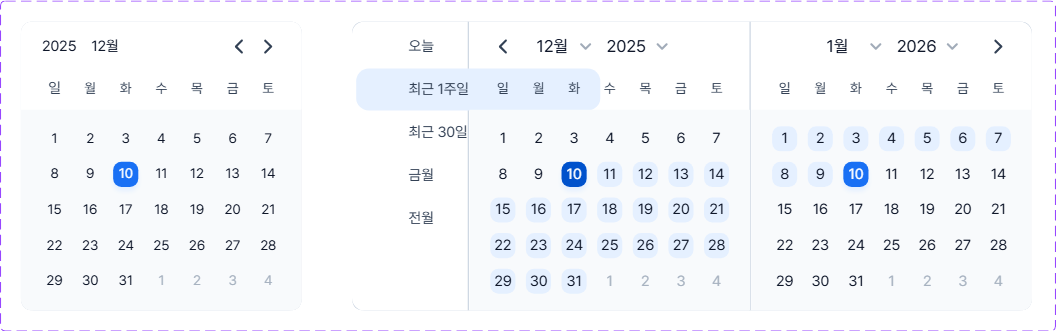
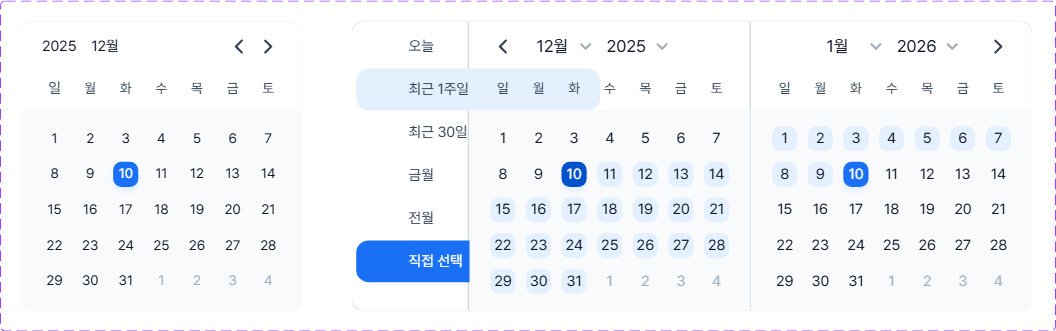
feat(web): render fidelity round 17 — variant swap inherits target's visual props
Round 16 made the data layer correct for variant swap (6 rail rows
all visible, "직접 선택" override applied to swap target's TEXT
descendant) but the audit screenshot still missed the 6th row.
Investigation hypothesised an audit-harness bbox issue; Konva tree
dump in the live page showed the real cause:

The "직접 선택" TEXT renders with `fill: rgba(255,255,255,1)` (white)
because the swap target master 15:287 styles its label as white-on-
blue (cornerRadius 12, fillPaints blue rgba(0.097, 0.441, 0.957)).
Round 16 swapped the master tree for children expansion but did not
inherit the swap target's visual properties onto the INSTANCE node
itself. Result: white text painted onto the rail's white container
background → visually invisible.

Fix: when swap is applied (swapApplied true), merge the swap
target's data fields into the instance's data PRIOR to the data
spread. Merge rule mirrors pen-export.ts:1146-1158:
  - swap target is the base (provides default fillPaints, cornerRadius,
    strokes, opacity, etc.)
  - instance own field wins on collision (transform, size override,
    instance-specific symbolData)
  - excluded from merge: guid/type/name (identity), children (we
    expand via _renderChildren separately), symbolData (instance-
    specific), transform (instance position), parentIndex/phase
    (tree-structure).

Visual gate: datepicker-12_749 rail now matches figma exactly — 6
rows including "직접 선택" with BLUE background + WHITE text. All
[…]

Changed region(s): [[0.3125, 0.7251, 0.4688, 0.8761]]

diff --git a/web/core/domain/clientNode.ts b/web/core/domain/clientNode.ts
@@ -637,6 +637,32 @@ export function toClientChildForRender(
         // I-E1: corrupt swap target falls back to the default master.
         ?? (swapTargetKey ? symbolIndex.get(`${sid.sessionID}:${sid.localID}`) : undefined);
       const swapApplied = swapTargetKey !== undefined && master !== undefined && masterKey === swapTargetKey;
+      // Spec web-instance-variant-swap §3.3 (round 17 extension): when
+      // swap is applied, the rendered INSTANCE node inherits the swap
+      // target's visual properties (fillPaints, cornerRadius, strokes,
+      // etc.) — Figma's semantic is "use this variant's appearance".
+      // Without this, e.g. metarich's "직접 선택" row renders the WHITE
+      // text with no blue background → visually invisible. The
+      // instance's own data fields (transform, etc.) still win on top
+      // for non-visual concerns. Mirrors pen-export.ts:1146-1158.
+      if (swapApplied && master) {
+        const swapTargetData = (master.data ?? {}) as Record<string, unknown>;
+        for (const k of Object.keys(swapTargetData)) {
+          // Skip fields the instance is meant to own / fields that don't
+          // make sense to inherit (children — we expand them separately
+          // via _renderChildren below; symbolData — instance-specific).
+          if (k === 'guid' || k === 'type' || k === 'name') continue;
+          if (k === 'children' || k === 'symbolData') continue;
+          if (k === 'transform') continue;            // instance position wins
+          if (k === 'parentIndex' || k === 'phase') continue;
+          // Only inherit when the instance doesn't already provide the
+          // field (instance own value wins on collision). Falls back to
+          // swap target for missing visual fields like fillPaints.
+          if (data[k] === undefined) {
+            (data as Record<string, unknown>)[k] = swapTargetData[k];
+          }
+        }
+      }
       if (master) {
         const innerText = collectTextOverridesFromInstance(sd?.symbolOverrides);
         const innerFill = collectFillOverridesFromInstance(sd?.symbolOverrides);

diff --git a/docs/specs/web-instance-variant-swap.spec.md b/docs/specs/web-instance-variant-swap.spec.md
@@ -52,6 +52,16 @@ Figma 의 "swap component instance" 메커니즘. 외곽 INSTANCE 의 `symbolOve
 - I-V1 swap 이 적용된 INSTANCE 는 **implicit visible:true** 로 취급 — 즉 INSTANCE 자체의 master 데이터가 `visible: false` 라도, swap 이 active 하면 visible 로 렌더. **단**, explicit `visibilityOverrides` (Symbol Visibility Override) 가 다른 값을 명시하면 그 값이 우선 (round-12 §3.4 I-P8 의 우선순위 일관). 메타리치 Dropdown 의 "직접 선택" 케이스: 15:300 master 데이터가 `visible: false`, outer 가 explicit `visible` override 를 두지 않음, swap 적용 → implicit visible:true → render.
 - I-V2 swap 이 *없는* INSTANCE 는 본 spec 영향 없음 — 기존 visibility 룰 그대로.
 
+### 3.4 Visual property inheritance from swap target (round 17)
+
+Figma 의 swap semantic 은 "use this variant's appearance" — 단순히 children 만 교체하는 게 아니라 **swap target 의 시각 속성을 INSTANCE 자체에 적용**. 메타리치 "직접 선택" 케이스: 기본 master 11:514 는 fillPaints 없음, swap target 15:287 은 fillPaints `{r:0.097, g:0.441, b:0.957}` (BLUE) + cornerRadius 12 + 흰 텍스트. swap 후 INSTANCE 가 swap target 의 fillPaints 를 inherit 하지 않으면 흰 텍스트가 흰 컨테이너 위에 그려져 시각적으로 사라짐.
+
+- I-V3 swap 이 적용되면 swap target 의 `data` 필드를 instance `data` 에 머지 (read 전, data spread 직전). 머지 룰: **instance own field wins** — 이미 instance.data 에 값이 있으면 유지; 없을 때만 swap target 값 채움.
+- I-V4 머지에서 제외하는 필드: `guid`, `type`, `name` (identity), `children`, `symbolData` (instance-specific), `transform` (instance position), `parentIndex`, `phase` (tree-structure). 그 외는 inherit 후보.
+- I-V5 visual fields (fillPaints, strokePaints, cornerRadius, rectangle*CornerRadius, opacity 등) 가 inherit 되어 시각적 outcome 이 swap target 의 것과 일치.
+
+`pen-export.ts:1146-1158` 의 `merged` 객체 생성 로직과 동등한 효과 — 거기서는 `{ ...masterData, ...rootOverrideFields, ... }` 로 master 값이 base, override 가 상위. 본 spec 의 I-V3 는 같은 방향: swap target 이 base, instance own 이 상위.
+
 ### 3.4 Master immutability
 
 - I-M1 swap target master 의 데이터 자체는 건드리지 않음 — round-12 spec §3.3 의 master immutability 와 동일 룰. swap 결과는 per-instance `_renderChildren` 복제본에만 적용.
@@ -79,14 +89,8 @@ Figma 의 "swap component instance" 메커니즘. 외곽 INSTANCE 의 `symbolOve
 - **Swap target 의 visibility 가 false** — swap target master 자체의 `visible: false` 케이스. v1 은 swap target 이 visible: true 라고 가정 (메타리치 케이스 충족).
 - **Swap target 의 master tree 가 변경된 후 다른 outer override 처리** — v1 은 swap target 의 children 에 outer 의 *나머지* overrides 적용. 만약 다른 path-keyed override 가 default master 의 children 을 target 으로 작성되어 있으면 그 override 는 (다른 GUID 트리이므로) 매칭 안 됨 — 무효. 메타리치는 outer override 가 swap target 의 GUID 를 알고 있어 자동 매칭.
 
-## 7. Known caveat — datepicker rail 6번째 행 visual
+## 7. Round 17 visual fix history (resolved)
 
-본 spec 구현 후 메타리치 datepicker rail 의 6번째 옵션 ("직접 선택") 은 **데이터 레이어에서는 정상 표시** — `_renderChildren` 에 `id: 15:300, visible: true, transform.m12: 209` 로 등록, `_renderChildren[].._renderChildren` 에 swap target 의 TEXT (15:288) 가 `_renderTextOverride: "직접 선택"` 으로 등록 (Konva tree dump 로 확인). 그러나 audit 스크린샷에는 5 행만 보임.
+Round 16 초안 commit 직후 데이터 layer 는 정상 작동했지만 audit 스크린샷에 6번째 행이 보이지 않았다. 원인 가설은 audit harness bbox 미스매치였으나, Konva tree dump 로 직접 확인하니 "직접 선택" TEXT 가 `fill: rgba(255,255,255,1)` (white) + 배경 Rect 부재로 흰 컨테이너 위 흰 텍스트 = 시각적으로 사라진 상태였다. Audit harness 와 무관한 bug.
 
-차이 원인은 본 spec 영역 *밖* — 데이터/오버라이드 파이프라인은 정확히 작동. 잔여 visual gap 의 가능성:
-
-- audit harness 의 `__canvasFitBox` 가 12:749 의 *master.size* (1008×316) 만 고려하고 children 이 그 bbox 밖으로 rendered 되는 케이스에서 짧은 클립.
-- 부모 FRAME (12:749 또는 12:750) 의 frameMaskDisabled clip 이 master.size 기준으로 커서 6번째 행을 자름.
-- Figma API export 의 bbox 와 우리 fig-page 의 bbox 가 *원래부터* 다름 (Figma 가 children 의 바운딩 박스로 export 영역 결정, 우리는 master.size 보고).
-
-별 라운드에서 audit harness 의 fit/clip 로직 또는 master-size-vs-rendered-bounds 디스크리펀시 분석이 필요. 본 spec 의 variant swap 구현 자체는 완성.
+진짜 원인: swap 이 적용되면 swap target master 의 fillPaints (blue background) 를 INSTANCE 에 inherit 해야 하는데, round-16 코드는 children 만 교체하고 visual 속성은 inherit 안 함. round 17 가 §3.4 I-V3~V5 로 visual 속성 inheritance 추가. fix 후 6번째 행이 figma 와 동일하게 BLUE 배경 + WHITE 텍스트로 정상 표시됨.
